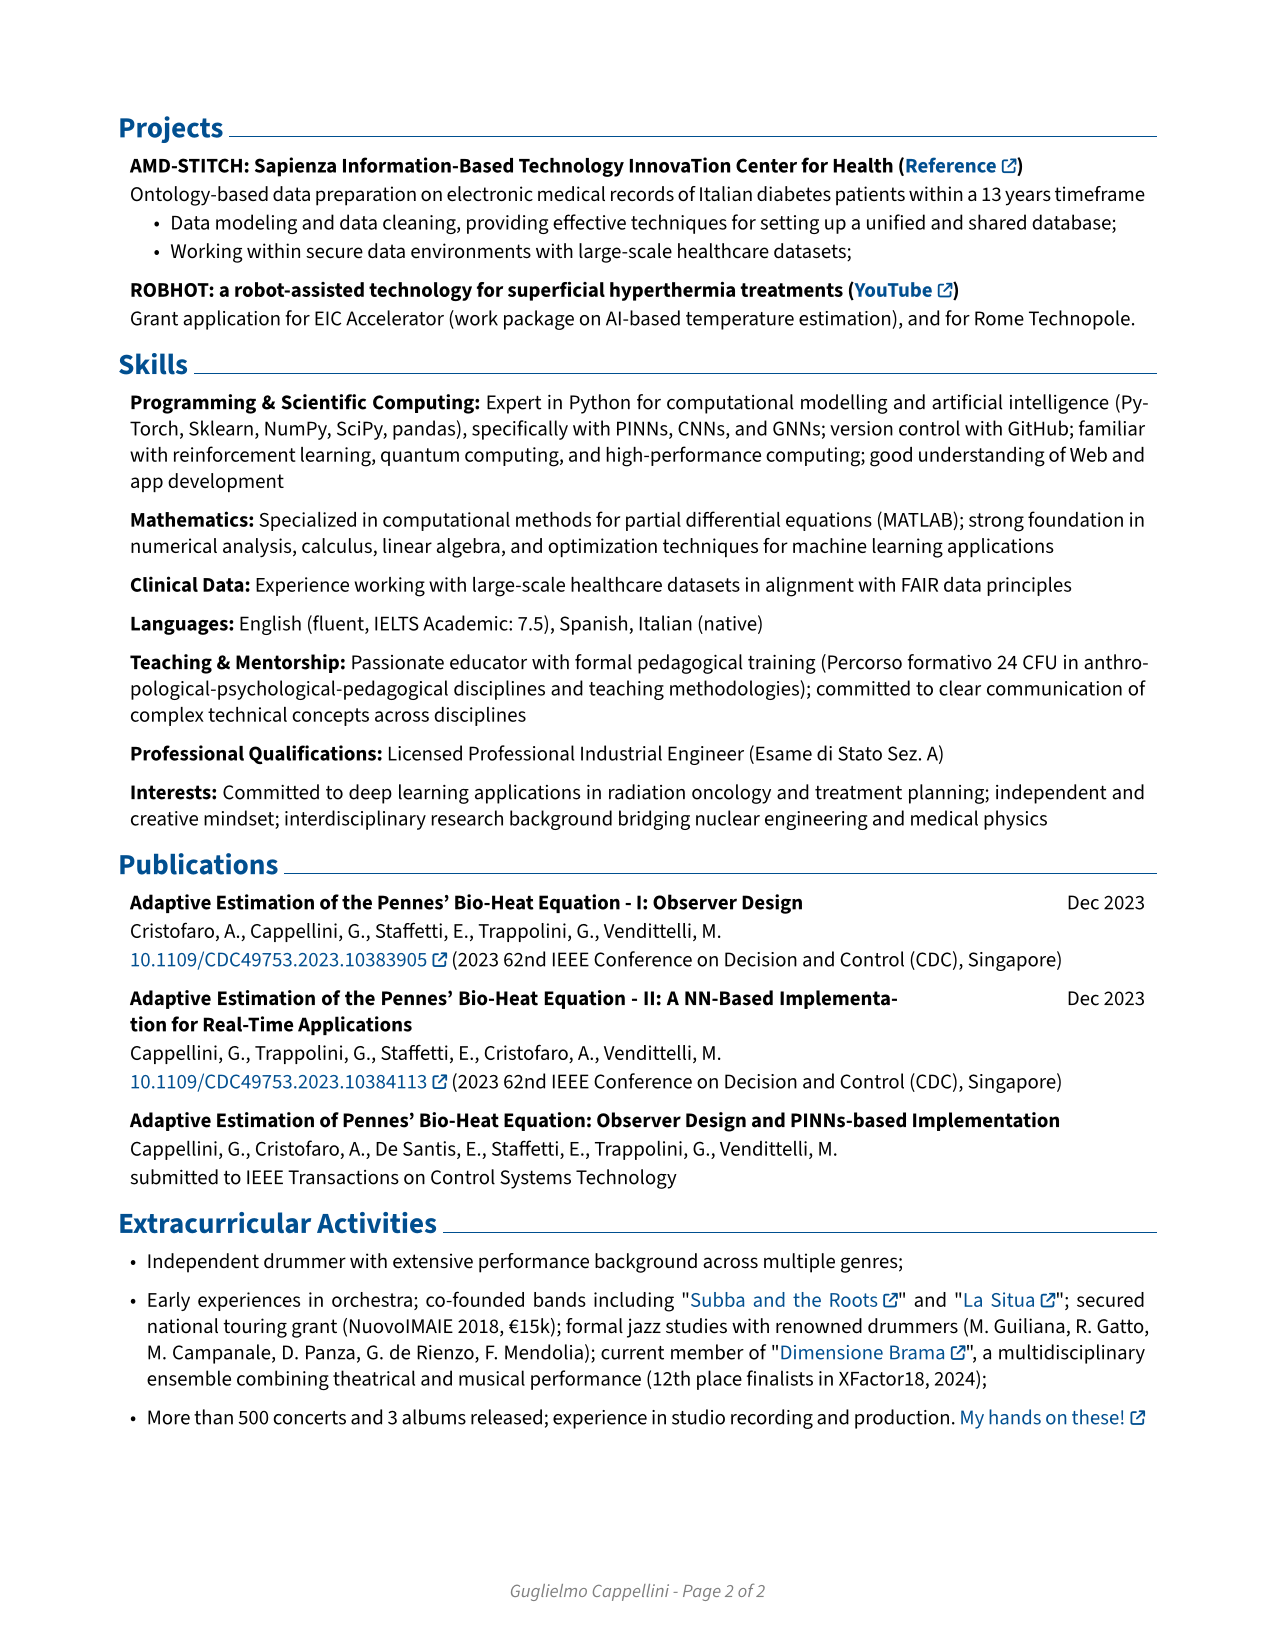
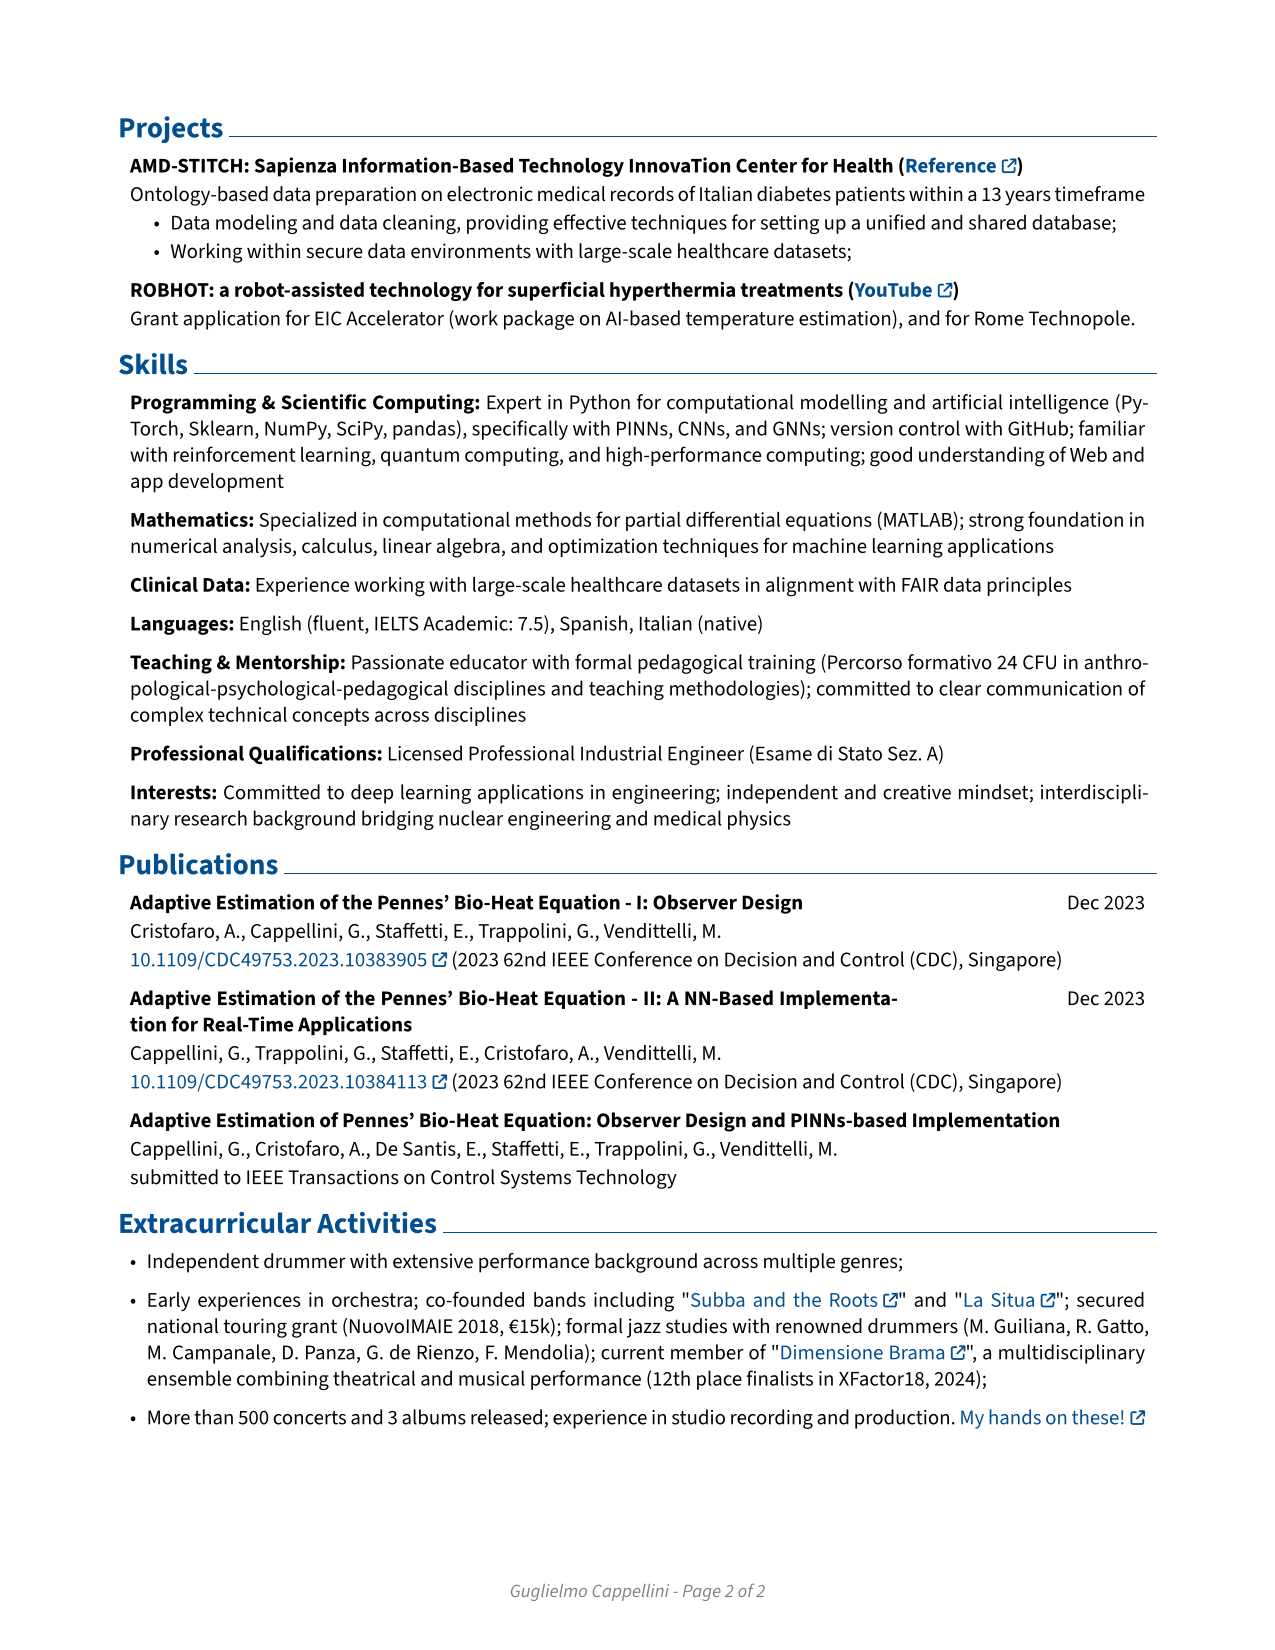
updates

Changed region(s): [[0.1224, 0.4636, 0.8871, 0.5255]]

diff --git a/cv/rendercv_output/Guglielmo_Cappellini_CV.html b/cv/rendercv_output/Guglielmo_Cappellini_CV.html
@@ -111,7 +111,7 @@
         <li>Languages: English (fluent, IELTS Academic: 7.5), Spanish, Italian (native).</li>
         <li>Teaching &amp; Mentorship: Passionate educator with formal pedagogical training (Percorso formativo 24 CFU in anthropological-psychological-pedagogical disciplines and teaching methodologies); committed to clear communication of complex technical concepts across disciplines.</li>
         <li>Professional Qualifications: Licensed Professional Industrial Engineer (Esame di Stato Sez. A).</li>
-        <li>Interests: Committed to deep learning applications in radiation oncology and treatment planning; independent and creative mindset; interdisciplinary research background bridging nuclear engineering and medical physics.</li>
+        <li>Interests: Committed to deep learning applications in engineering; independent and creative mindset; interdisciplinary research background bridging nuclear engineering and medical physics.</li>
         </ul>
         <h1>Publications</h1>
         <h2>Adaptive Estimation of the Pennes' Bio-Heat Equation - I: Observer Design (<a href="https://doi.org/10.1109/CDC49753.2023.10383905">10.1109/CDC49753.2023.10383905</a>)</h2>

diff --git a/cv/rendercv_output/Guglielmo_Cappellini_CV.md b/cv/rendercv_output/Guglielmo_Cappellini_CV.md
@@ -76,7 +76,7 @@
 - Languages: English (fluent, IELTS Academic: 7.5), Spanish, Italian (native).
 - Teaching & Mentorship: Passionate educator with formal pedagogical training (Percorso formativo 24 CFU in anthropological-psychological-pedagogical disciplines and teaching methodologies); committed to clear communication of complex technical concepts across disciplines.
 - Professional Qualifications: Licensed Professional Industrial Engineer (Esame di Stato Sez. A).
-- Interests: Committed to deep learning applications in radiation oncology and treatment planning; independent and creative mindset; interdisciplinary research background bridging nuclear engineering and medical physics.
+- Interests: Committed to deep learning applications in engineering; independent and creative mindset; interdisciplinary research background bridging nuclear engineering and medical physics.
 # Publications
 
 ## Adaptive Estimation of the Pennes' Bio-Heat Equation - I: Observer Design ([10.1109/CDC49753.2023.10383905](https://doi.org/10.1109/CDC49753.2023.10383905))
